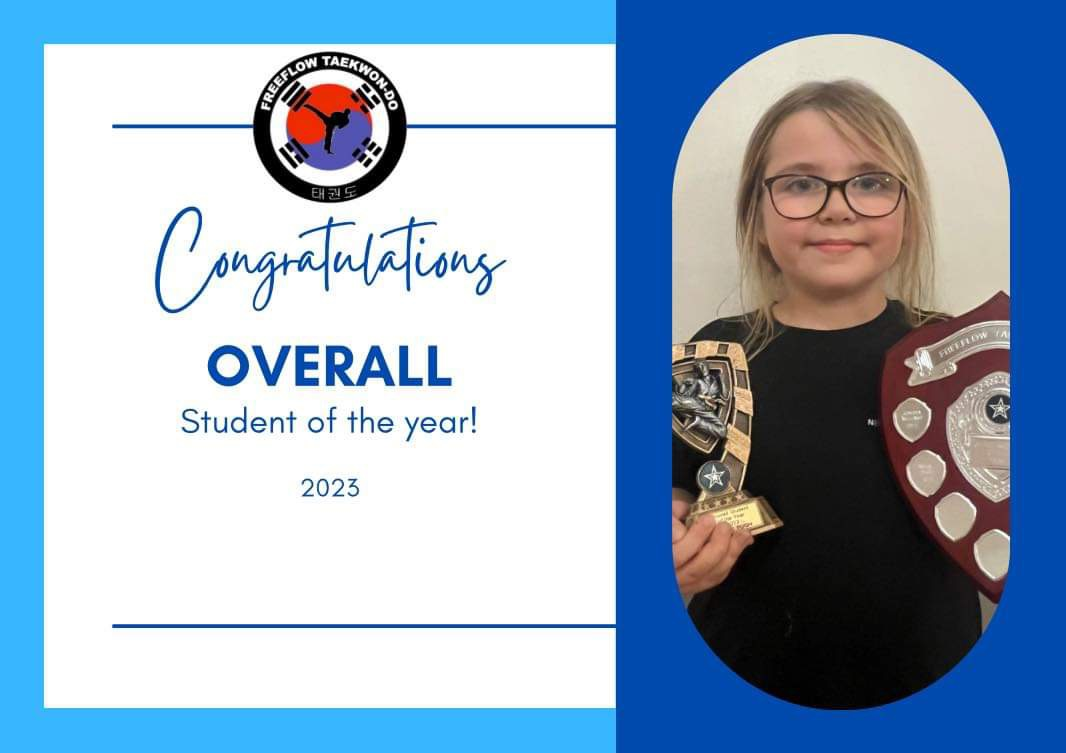
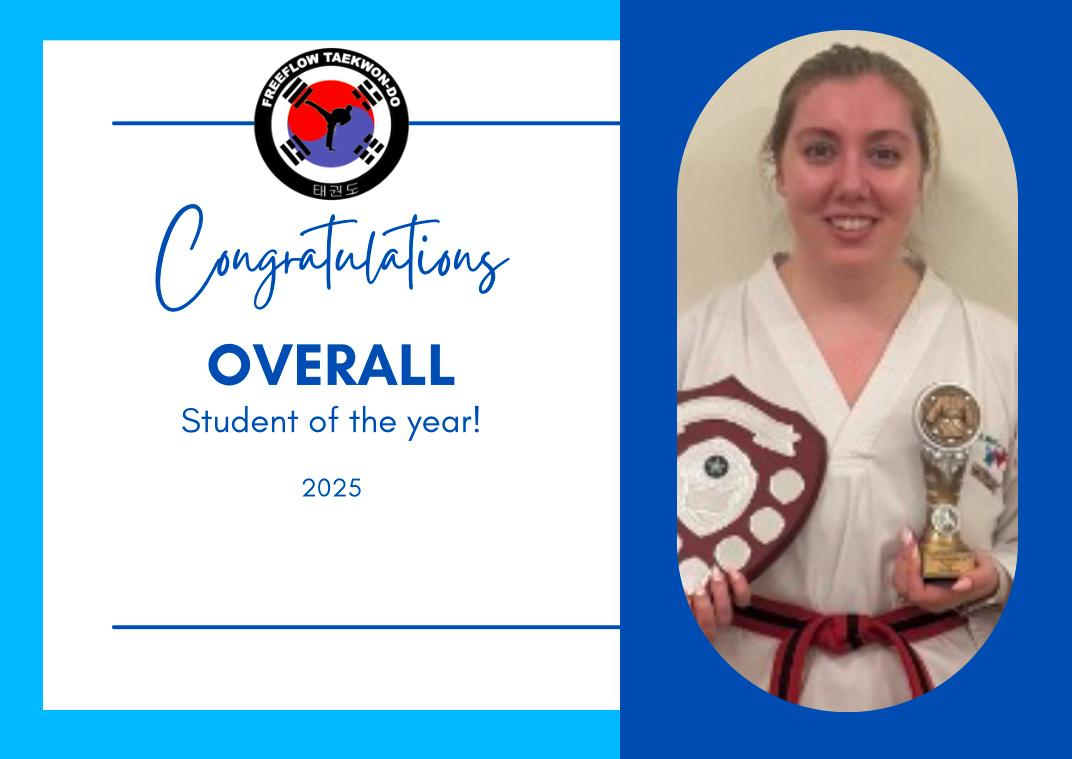
Update SOTY to 2024's for 2025

diff --git a/pages/index.tsx b/pages/index.tsx
@@ -52,7 +52,7 @@ export default function Index(props: React.PropsWithChildren<{}>) {
                 image="images/stacey.png"
             />
         </CardRow>
-        <SocialPost>Huge congratulations to these students winning Student of the Year in 2023. Keep up the hard work all of you!</SocialPost>
+        <SocialPost>Huge congratulations to these students winning Student of the Year for 2024. Keep up the hard work all of you!</SocialPost>
         <CardRow>
             <Card image="images/SOTY/1.jpeg"/>
             <Card image="images/SOTY/2.jpeg"/>
